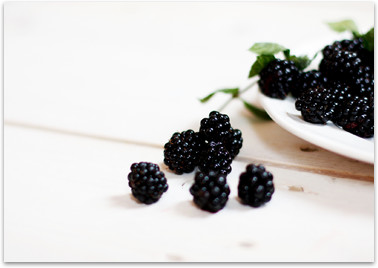
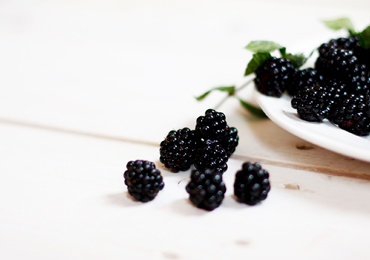
ДЗ 18 урока - Cahee

diff --git a/homework18/index.html b/homework18/index.html
@@ -152,17 +152,17 @@
 				
 				<div class="gallery-container">
 					<div class="gallery-col-8">
-						<img class="gallery__img" src="images/img1.png" alt="">
+						<img class="gallery__img" src="images/img1.jpg" alt="">
 					</div>
 					<div class="gallery-col-4 gallery-container--vertical">
-						<img class="gallery__img" src="images/img2.png" alt="">
-						<img class="gallery__img" src="images/img3.png" alt="">
+						<img class="gallery__img" src="images/img2.jpg" alt="">
+						<img class="gallery__img" src="images/img3.jpg" alt="">
 					</div>
 					<div class="gallery-col-6">
-						<img class="gallery__img" src="images/img4.png" alt="">
+						<img class="gallery__img" src="images/img4.jpg" alt="">
 					</div>
 					<div class="gallery-col-6">
-						<img class="gallery__img" src="images/img5.png" alt="">
+						<img class="gallery__img" src="images/img5.jpg" alt="">
 					</div>
 				</div>
 				

diff --git a/homework18/main.css b/homework18/main.css
@@ -306,6 +306,10 @@ a {
 
 .gallery__img {
     width: 100%;
+
+    -webkit-box-shadow: 0px 0px 12px 0px rgba(0,0,0,0.75);
+    -moz-box-shadow: 0px 0px 12px 0px rgba(0,0,0,0.75);
+    box-shadow: 0px 0px 12px 0px rgba(0,0,0,0.75);
     /*margin-bottom: 30px;*/
     /*background: #00c4c4;*/
 }
